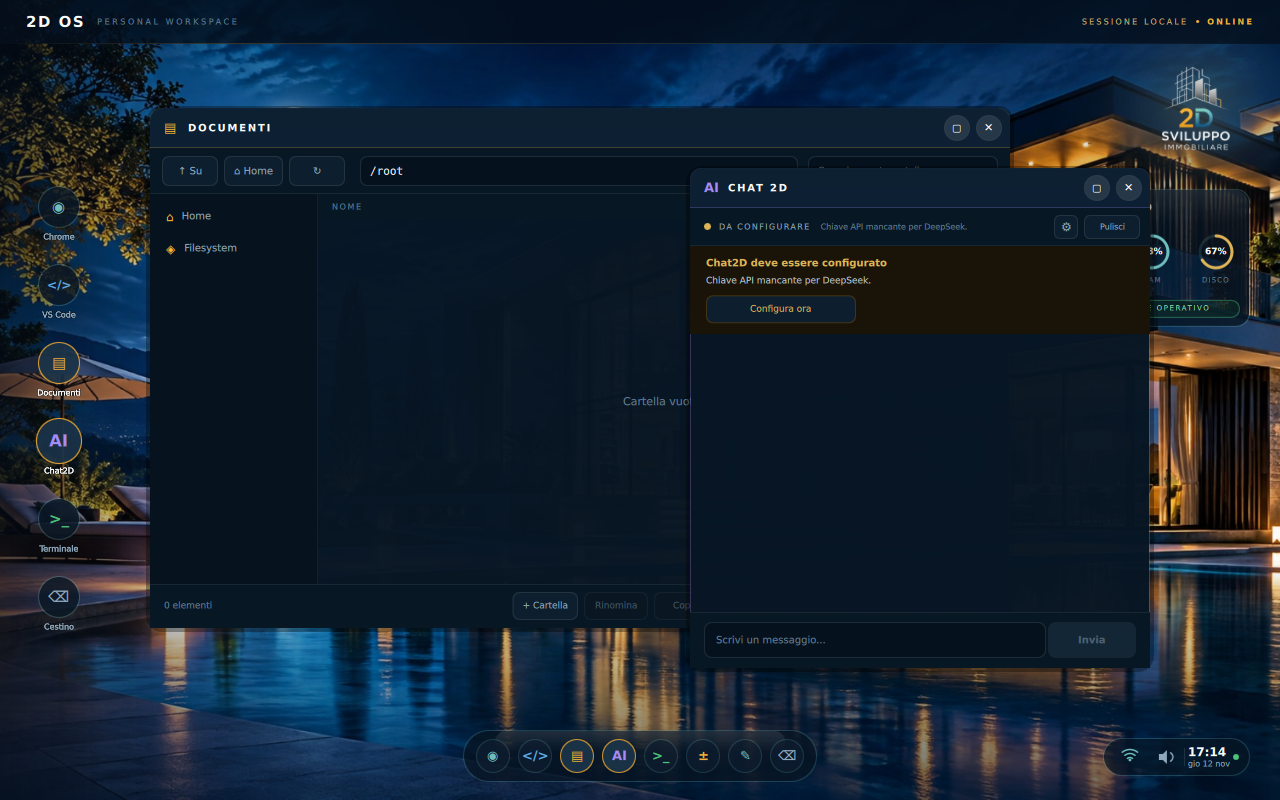
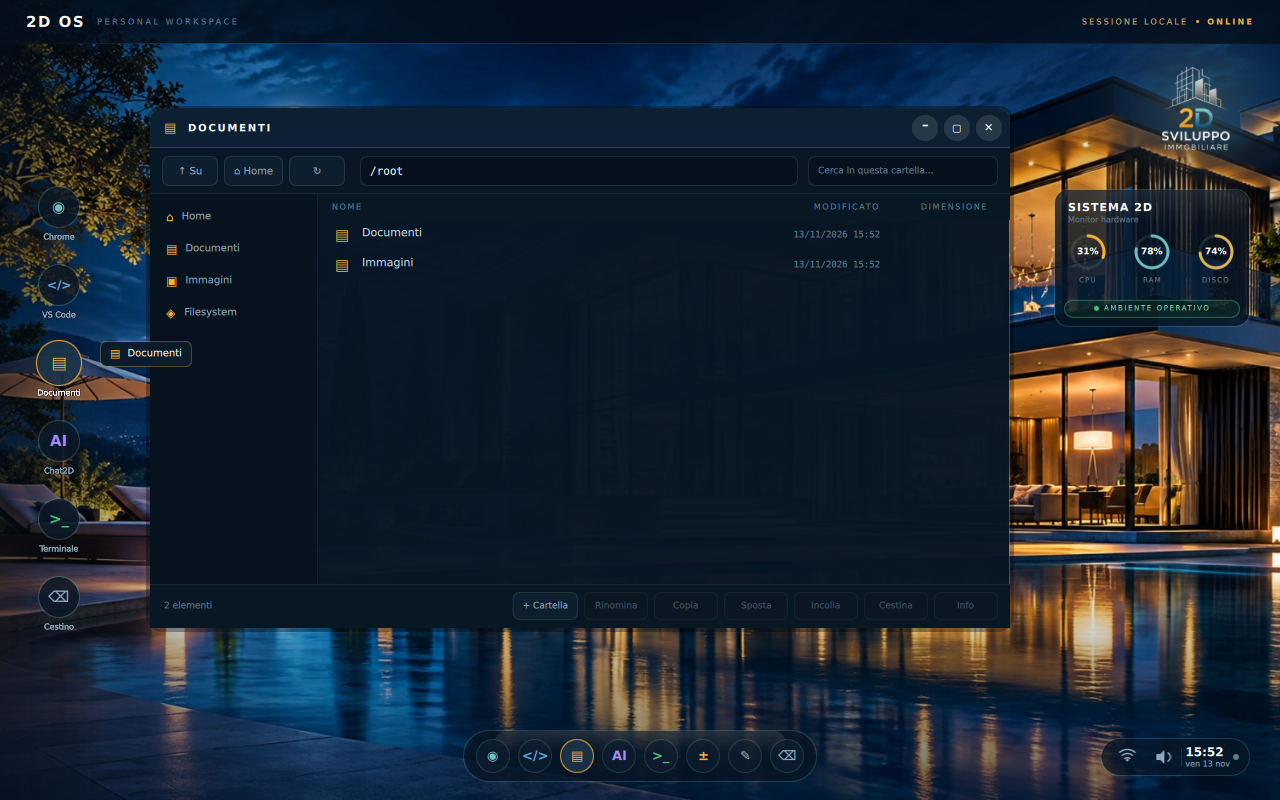
Demo: avvio in un comando e pagina con diagnosi del flusso
- scripts/demo-start.sh avvia Xvfb, container e server MJPEG in modo
  idempotente e stampa gli indirizzi da aprire
- la pagina di anteprima ora dichiara lo stato (live/offline), spiega cosa
  controllare e riprova da sola se il flusso cade

diff --git a/scripts/demo-web.py b/scripts/demo-web.py
@@ -95,7 +95,20 @@ PAGE = """<!doctype html>
 <main>
   <div class="frame">
     <img id="screen" src="/stream" alt="2D OS"
-         onload="document.getElementById('status').textContent='live'">
+         onload="streamOk()" onerror="streamFailed()">
+  </div>
+  <div id="offline" style="display:none; text-align:center; max-width:520px;">
+    <p style="color:#e6c478; font-size:15px; margin:0 0 10px;">
+      Il flusso video non è raggiungibile
+    </p>
+    <p style="font-size:13px; opacity:.7; line-height:1.6; margin:0;">
+      Il server dell'anteprima risponde, ma la cattura dello schermo non arriva.
+      Controlla che il container della shell sia attivo:<br>
+      <code style="color:#c8d6e2;">docker ps | grep 2dos-live</code>
+    </p>
+    <p style="font-size:13px; opacity:.55; margin-top:14px;">
+      Nuovo tentativo automatico tra pochi secondi…
+    </p>
   </div>
 </main>
 <footer>
@@ -104,6 +117,32 @@ PAGE = """<!doctype html>
 </footer>
 <script>
 const img = document.getElementById('screen');
+const statusPill = document.getElementById('status');
+const offlineBox = document.getElementById('offline');
+
+let retryTimer = null;
+let loadedOnce = false;
+
+function streamOk() {
+  loadedOnce = true;
+  statusPill.textContent = 'live';
+  statusPill.style.borderColor = 'rgba(120,220,160,.5)';
+  statusPill.style.color = '#8fe0ac';
+  img.style.display = 'block';
+  offlineBox.style.display = 'none';
+  if (retryTimer) { clearTimeout(retryTimer); retryTimer = null; }
+}
+
+function streamFailed() {
+  statusPill.textContent = 'offline';
+  statusPill.style.borderColor = 'rgba(230,120,110,.5)';
+  statusPill.style.color = '#e7988f';
+  img.style.display = 'none';
+  offlineBox.style.display = 'block';
+  retryTimer = setTimeout(() => {
+    img.src = '/stream?t=' + Date.now();
+  }, 4000);
+}
 async function send(ev, dbl) {
   const r = img.getBoundingClientRect();
   const x = Math.round((ev.clientX - r.left) * __W__ / r.width);
